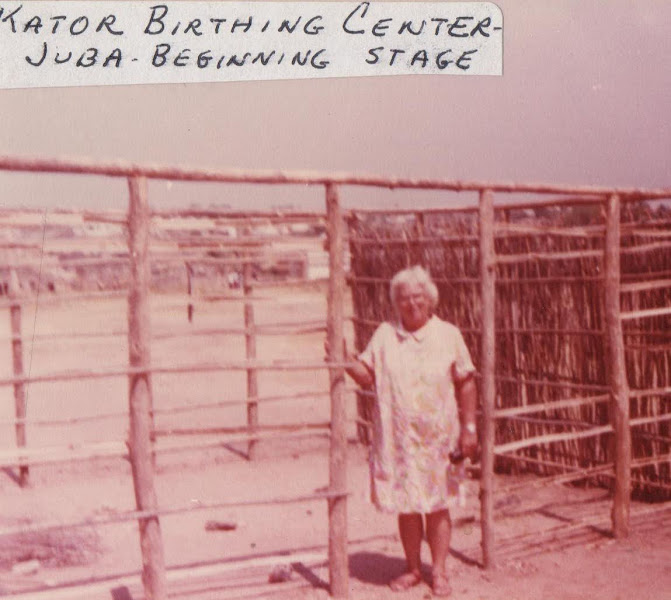
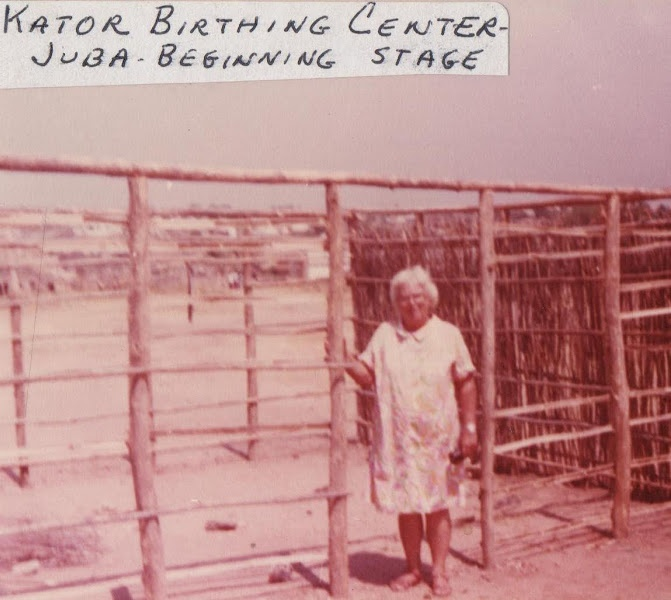
Family photos, Bogalusa, footnote, and copy fixes
- Add family-album photos: Winifred as a toddler and at Red Bird with a jeep;
  the Bradford farm family, Lester at Hebron, in the Army and as a smokejumper;
  the full wedding party (two slides stitched); Lester's ox team at Kayima;
  back to Africa in 1960; the VW pickup in Bo
- Section v now covers Bogalusa (1968) and Baton Rouge, from the family bio and NSA obituary
- Dec 20/21 discrepancy moves to a footnote
- Complete the cut-off K on the Kator label
- Map "Home" becomes "Back in the U.S."; ages as numerals; drop the reels intro,
  the Khunjerab altitude note and the letters "names left out" clause

Changed region(s): [[0.0, 0.0, 0.775, 0.12]]

diff --git a/site/index.html b/site/index.html
@@ -131,28 +131,62 @@
         <p>Winifred Smith was born in Enid, Oklahoma, on October 20, 1922, the sixth of eight children, two years after American women won the vote. She set her heart on medicine and paid her own way through the Depression and the war: a degree from York College, a small United Brethren school in York, Nebraska, in 1944, and then the University of Nebraska College of Medicine, where she was one of four women in a class of 92.<sup class="cite"><a href="#src-memoir">1</a></sup><sup class="cite"><a href="#src-sherbro">6</a></sup> Her medical degree was conferred on April 3, 1948.<sup class="cite"><a href="#src-memoir">1</a></sup></p>
         <p>She spent medical-school summers volunteering at the Red Bird Mission in the mountains of eastern Kentucky, and later went back to cover for its doctor. Not every patient was ready for her. “If I’d o knowed you was a woman,” one told her, “I wouldn’t have come.”<sup class="cite"><a href="#src-memoir">1</a></sup></p>
       </div>
-      <figure class="photo tilt-l photo-small">
-        <button class="zoom" type="button" aria-label="Enlarge photo: Winifred Smith holding a newborn">
-          <div class="frame"><img width="419" height="463" src="media/photos/winnie-red-bird-640.webp" loading="lazy" decoding="async" alt="A smiling young woman in a white uniform holds a newborn baby up in her hands."></div>
-        </button>
-        <figcaption>Dr. Winifred Smith with a newborn at the Red Bird Mission, Kentucky, in the late 1940s.<span class="caption-meta">Photo via Sherbro Foundation</span></figcaption>
-      </figure>
+      <div class="album">
+        <figure class="photo tilt-l">
+          <button class="zoom" type="button" aria-label="Enlarge photo: Winifred as a small child">
+            <div class="frame"><img width="640" height="919" src="media/photos/family-winifred-toddler-640.webp" loading="lazy" decoding="async" alt="Sepia photo of a little girl in a long white dress and a ruffled bonnet, standing in front of a wooden building."></div>
+          </button>
+          <figcaption>Winifred as a small child, 1920s.<span class="caption-meta">Bradford family collection</span></figcaption>
+        </figure>
+        <figure class="photo tilt-r">
+          <button class="zoom" type="button" aria-label="Enlarge photo: Winifred Smith holding a newborn">
+            <div class="frame"><img width="419" height="463" src="media/photos/winnie-red-bird-640.webp" loading="lazy" decoding="async" alt="A smiling young woman in a white uniform holds a newborn baby up in her hands."></div>
+          </button>
+          <figcaption>With a newborn at the Red Bird Mission, Kentucky, late 1940s.<span class="caption-meta">Photo via Sherbro Foundation</span></figcaption>
+        </figure>
+        <figure class="photo tilt-l">
+          <button class="zoom" type="button" aria-label="Enlarge photo: Winifred beside a jeep at the Red Bird Mission">
+            <div class="frame"><img width="640" height="913" src="media/photos/family-red-bird-jeep-640.webp" loading="lazy" decoding="async" alt="Black-and-white photo of a young woman in a light dress and jacket, laughing as she leans against the door of a canvas-topped Willys jeep."></div>
+          </button>
+          <figcaption>Beside a jeep at the Red Bird Mission.<span class="caption-meta">Bradford family collection</span></figcaption>
+        </figure>
+      </div>
     </article>
 
     <article class="life reveal">
       <p class="kicker">Lester Ezra Bradford</p>
       <h3>Farm boy, air cadet, forester, smokejumper</h3>
       <div class="prose">
-        <p>Lester was born on January 20, 1926, on a farm on Mt. Abram near the village of Locke Mills, Maine, one of nine children of Everett and Fannie Bradford. “I grew up on a Maine farm where we farmed with horses and oxen,” he wrote, a fact that would matter a great deal in West Africa.<sup class="cite"><a href="#src-bio">3</a></sup><sup class="cite"><a href="#src-auto">2</a></sup></p>
+        <p>Lester was born on January 20, 1926, on a farm on Mt. Abram near the village of Locke Mills, Maine, one of nine children of Everett and Fannie Bradford. “I grew up on a Maine farm where we farmed with horses and oxen,” he wrote, a fact that would take on new importance and meaning in West Africa.<sup class="cite"><a href="#src-bio">3</a></sup><sup class="cite"><a href="#src-auto">2</a></sup></p>
         <p>After Hebron Academy he joined the Army in 1944 and trained as a tail gunner; just as he was ready for service, the war ended.<sup class="cite"><a href="#src-bio">3</a></sup><sup class="cite"><a href="#src-nsa">7</a></sup> The GI Bill took him to Yale for three years of botany and two in the School of Forestry, finishing with a Master of Forestry in 1951.<sup class="cite"><a href="#src-auto">2</a></sup><sup class="cite"><a href="#src-yale">8</a></sup></p>
         <p>He spent four summers with the U.S. Forest Service, two of them as a smokejumper parachuting onto wildfires out of Missoula, Montana, and Cave Junction, Oregon.<sup class="cite"><a href="#src-auto">2</a></sup><sup class="cite"><a href="#src-bio">3</a></sup></p>
       </div>
-      <figure class="photo tilt-r photo-small">
-        <button class="zoom" type="button" aria-label="Enlarge photo: smokejumpers boarding a Ford Trimotor, 1945">
-          <div class="frame"><img width="640" height="465" src="media/photos/commons-smokejumpers-1945-640.webp" loading="lazy" decoding="async" alt="Black-and-white photo of young men in parachute harnesses climbing into a corrugated-metal Ford Trimotor airplane."></div>
+      <figure class="photo tilt-r farm-photo">
+        <button class="zoom" type="button" aria-label="Enlarge photo: a farm family on a Maine hillside">
+          <div class="frame"><img width="640" height="429" src="media/photos/family-bradfords-maine-farm-640.webp" srcset="media/photos/family-bradfords-maine-farm-640.webp 640w, media/photos/family-bradfords-maine-farm-1280.webp 1280w" sizes="(max-width: 760px) 92vw, 34rem" loading="lazy" decoding="async" alt="Black-and-white photo of a tall man in suspenders and a woman holding a baby, with eight children lined up by height between them in a grassy field below a wooded hill."></div>
         </button>
-        <figcaption>Forest Service smokejumpers boarding a Ford Trimotor in Montana, July 1945. Lester joined the program a few years later.<span class="caption-meta">U.S. Forest Service · Public domain, via Wikimedia Commons</span></figcaption>
+        <figcaption>Very likely Everett and Fannie Bradford with their nine children, Lester among them.<span class="caption-meta">Bradford family collection</span></figcaption>
       </figure>
+      <div class="album">
+        <figure class="photo tilt-l">
+          <button class="zoom" type="button" aria-label="Enlarge photo: Lester's high school graduation portrait">
+            <div class="frame"><img width="640" height="944" src="media/photos/family-lester-hebron-1943-640.webp" loading="lazy" decoding="async" alt="Sepia studio portrait of a young man with wavy hair in a dark suit and plaid tie."></div>
+          </button>
+          <figcaption>High school graduation, Hebron Academy, 1943.<span class="caption-meta">Bradford family collection</span></figcaption>
+        </figure>
+        <figure class="photo tilt-r">
+          <button class="zoom" type="button" aria-label="Enlarge photo: Lester in Army uniform">
+            <div class="frame"><img width="640" height="881" src="media/photos/family-lester-army-640.webp" srcset="media/photos/family-lester-army-640.webp 640w, media/photos/family-lester-army-1280.webp 1280w" sizes="(max-width: 760px) 30vw, 11rem" loading="lazy" decoding="async" alt="Sepia studio portrait of a young man in an Army uniform and garrison cap, with air crew wings on his chest."></div>
+          </button>
+          <figcaption>In Army uniform, mid-1940s.<span class="caption-meta">Bradford family collection</span></figcaption>
+        </figure>
+        <figure class="photo tilt-l">
+          <button class="zoom" type="button" aria-label="Enlarge photo: Lester in smokejumper gear">
+            <div class="frame"><img width="640" height="933" src="media/photos/family-lester-smokejumper-640.webp" srcset="media/photos/family-lester-smokejumper-640.webp 640w, media/photos/family-lester-smokejumper-1280.webp 1280w" sizes="(max-width: 760px) 30vw, 11rem" loading="lazy" decoding="async" alt="Sepia photo of a young man in a padded jump suit and parachute harness, holding a mesh face-guard helmet, on an airstrip below forested hills."></div>
+          </button>
+          <figcaption>Suited up to jump, 1950 or 1951.<sup class="cite"><a href="#src-nsa">7</a></sup><span class="caption-meta">Bradford family collection</span></figcaption>
+        </figure>
+      </div>
     </article>
   </div>
 </section>
@@ -194,7 +228,7 @@
       <ol class="days reveal">
         <li class="day">
           <time datetime="1952-12-21"><small>Sunday</small>Dec 21</time>
-          <p>Winnie spends the day telephoning Freetown from a railway station to ask whether his ship is in. At 6&nbsp;p.m. the call comes: Lester, off the S.S. <i>Ferngulf</i>, has just walked into the mission house.</p>
+          <p>Winnie spends the day telephoning Freetown from a railway station to ask whether his ship is in. At 6&nbsp;p.m. the call comes: Lester, off the S.S. <i>Ferngulf</i>, has just walked into the mission house.<sup class="cite fn"><a href="#fn-arrival" id="fnref-arrival" aria-label="Note">*</a></sup></p>
         </li>
         <li class="day">
           <time datetime="1952-12-22"><small>Monday</small>Dec 22</time>
@@ -212,7 +246,14 @@
         <figcaption>Mr. and Mrs. Lester Bradford, December 23, 1952.<span class="caption-meta">From <i>A Life Remembered</i> (2011)</span></figcaption>
       </figure>
     </div>
-    <p class="after reveal">Winnie had arranged everything herself: the menu, the rice, the invitations, even the license, which the District Commissioner had to amend because it was unusual for the bride to apply. They stayed married for sixty-six years.<sup class="cite"><a href="#src-memoir">1</a></sup><sup class="cite"><a href="#src-sherbro">6</a></sup> <span class="aside">Some later accounts give Lester’s arrival as December 20; Winnie’s letter from that month says the 21st.</span></p>
+    <p class="after reveal">Winnie had arranged everything herself: the menu, the rice, the invitations, even the license, which the District Commissioner had to amend because it was unusual for the bride to apply. They stayed married for sixty-six years.<sup class="cite"><a href="#src-memoir">1</a></sup><sup class="cite"><a href="#src-sherbro">6</a></sup></p>
+    <figure class="photo party reveal">
+      <button class="zoom" type="button" data-full="media/photos/family-wedding-party-1952-1280.webp" aria-label="Enlarge photo: the full wedding party, December 1952">
+        <div class="frame"><img width="640" height="438" src="media/photos/family-wedding-party-1952-640.webp" srcset="media/photos/family-wedding-party-1952-640.webp 640w, media/photos/family-wedding-party-1952-1280.webp 1280w" sizes="(max-width: 860px) 92vw, 72rem" loading="lazy" decoding="async" alt="Color photo of a large wedding party on a lawn in front of a two-story mission house with a red roof: the bride in white satin and veil, the groom in a pale gray suit, bridesmaids in pink and white with bouquets, two boys in front, and groomsmen in dark jackets and white trousers."></div>
+      </button>
+      <figcaption>The whole wedding party, December 1952. Two color slides from the family collection, joined to show everyone.<span class="caption-meta">Bradford family collection</span></figcaption>
+    </figure>
+    <p class="footnote" id="fn-arrival"><a href="#fnref-arrival" aria-label="Back to the text">*</a> Some later accounts give Lester’s arrival as December 20;<sup class="cite"><a href="#src-nsa">7</a></sup> Winnie’s letter from that month says the 21st.<sup class="cite"><a href="#src-memoir">1</a></sup></p>
   </div>
 </section>
 
@@ -248,12 +289,36 @@
         </button>
         <figcaption>The Manjama Health Center. “The front of the building is where I held clinics. The back of the building is where I delivered babies.”<span class="caption-meta">From <i>A Life Remembered</i> (2011)</span></figcaption>
       </figure>
+      <div class="photo-pair">
+        <figure class="photo tilt-l reveal">
+          <button class="zoom" type="button" aria-label="Enlarge photo: the family setting off back to Africa, 1960">
+            <div class="frame"><img width="640" height="447" src="media/photos/family-back-to-africa-1960-640.webp" loading="lazy" decoding="async" alt="Black-and-white photo of Lester in shirt, tie and suspenders and Winnie holding a baby, with four small children, in front of a white clapboard building and a 1950s car."></div>
+          </button>
+          <figcaption>Setting off back to Africa in 1960, after a year’s furlough in Maine.<sup class="cite"><a href="#src-bio">3</a></sup><span class="caption-meta">Bradford family collection</span></figcaption>
+        </figure>
+        <figure class="photo tilt-r reveal offset">
+          <button class="zoom" type="button" aria-label="Enlarge photo: the family's Volkswagen pickup in Bo">
+            <div class="frame"><img width="640" height="326" src="media/photos/family-bo-pickup-640.webp" srcset="media/photos/family-bo-pickup-640.webp 640w, media/photos/family-bo-pickup-1280.webp 1280w" sizes="(max-width: 860px) 46vw, 17rem" loading="lazy" decoding="async" alt="Black-and-white photo of three children sitting on the load bed of a Volkswagen double-cab pickup truck with its doors open."></div>
+          </button>
+          <figcaption>The Volkswagen double-cab pickup, with three of the children aboard, in Bo, 1960s.<span class="caption-meta">Bradford family collection</span></figcaption>
+        </figure>
+      </div>
     </div>
   </div>
 
   <div class="toolkit reveal" aria-labelledby="toolkit-h">
-    <h3 id="toolkit-h">What Lester planted</h3>
-    <p class="toolkit-intro">His own account, written late in life, was titled <i>A Life in Tropical Agroforestry</i>. These are the projects he described from his Sierra Leone years.<sup class="cite"><a href="#src-auto">2</a></sup></p>
+    <div class="toolkit-head">
+      <div>
+        <h3 id="toolkit-h">What Lester planted</h3>
+        <p class="toolkit-intro">His own account, written late in life, was titled <i>A Life in Tropical Agroforestry</i>. These are the projects he described from his Sierra Leone years.<sup class="cite"><a href="#src-auto">2</a></sup></p>
+      </div>
+      <figure class="photo tilt-r">
+        <button class="zoom" type="button" aria-label="Enlarge photo: Lester with his ox team in Kayima">
+          <div class="frame"><img width="640" height="489" src="media/photos/family-kayima-oxen-640.webp" srcset="media/photos/family-kayima-oxen-640.webp 640w, media/photos/family-kayima-oxen-1280.webp 1280w" sizes="(max-width: 860px) 92vw, 30rem" loading="lazy" decoding="async" alt="Sepia photo of two oxen in a hand-carved wooden yoke, one dark and one white, with a man holding the lead ropes on the left and Lester, shirtless in shorts and a cap, leaning on the white ox at right, in front of a thatched hut."></div>
+        </button>
+        <figcaption>Lester, right, with an ox team at Kayima, where they lived from 1953 to 1955.<sup class="cite"><a href="#src-memoir">1</a></sup><span class="caption-meta">Bradford family collection</span></figcaption>
+      </figure>
+    </div>
     <ul>
       <li><b>Ox-plowing</b>He bought a pair of oxen from a passing herder, whittled a yoke, and “taught the team to respond to <i>gee</i> and <i>haw</i> in the best Maine fashion.” The chief and his council were not impressed.</li>
       <li><b>Cover crops</b>To break the cycle of slash-and-burn forest fallow, which tied up land for years, he found a cover crop that kept soil fertile without it.</li>
@@ -275,10 +340,6 @@
     <h2 id="reels-h">The reels</h2>
     <p class="kicker">Silent home movies · The family collection</p>
   </div>
-  <div class="reels-intro reveal">
-    <p>The family kept a camera running through decades of furloughs and reunions. These two clips come from the Bradford family’s own reels, digitized from film. They are silent, as they were made.</p>
-  </div>
-
   <div class="feature-reel reveal">
     <div class="screen">
       <video controls muted playsinline preload="none" poster="media/reels/african-dawn.jpg" aria-label="Home movie: a sendoff aboard the African Dawn" aria-describedby="dawn-desc">
@@ -312,7 +373,7 @@
   </div>
   <div class="chapter-body flip">
     <div class="prose reveal">
-      <p>Back in the United States, Lester joined the LSU extension service in Louisiana, then earned a Doctor of Education at LSU in 1971 with a study of how well forestry knowledge translated into forest practice in two Louisiana parishes.<sup class="cite"><a href="#src-memoir">1</a></sup><sup class="cite"><a href="#src-lsu">5</a></sup> Winnie, a veteran of thousands of deliveries, went back to school too, completing a pediatric residency in Baton Rouge.<sup class="cite"><a href="#src-memoir">1</a></sup></p>
+      <p>Back in the United States in 1968, the family settled first in Bogalusa, Louisiana, where Lester worked for the LSU extension service.<sup class="cite"><a href="#src-bio">3</a></sup><sup class="cite"><a href="#src-nsa">7</a></sup> The next two years they spent in Baton Rouge. There Lester earned a Doctor of Education at LSU in 1971 with a study of how well forestry knowledge translated into forest practice in two Louisiana parishes,<sup class="cite"><a href="#src-bio">3</a></sup><sup class="cite"><a href="#src-lsu">5</a></sup> and Winnie, a veteran of thousands of deliveries, went back to school too, completing a pediatric residency at Earl K. Long hospital.<sup class="cite"><a href="#src-memoir">1</a></sup></p>
       <p>In 1971 they moved to Mount Vernon, Washington, where Lester became Washington State University’s county agent for 4-H, education and forestry in Skagit and Island counties.<sup class="cite"><a href="#src-bio">3</a></sup><sup class="cite"><a href="#src-nsa">7</a></sup></p>
       <p>Winnie began attending home births, and in January 1975 she and nurse practitioner Beth Marvin opened the Mount Vernon Birth Center in an old house near Skagit Valley Hospital.<sup class="cite"><a href="#src-memoir">1</a></sup> Within a year or two, nearly two hundred babies had been born there.<sup class="cite"><a href="#src-memoir">1</a></sup> Not every doctor approved. The State Medical Disciplinary Board held a hearing on her competency; that day the hospital waiting room was crowded with families ready to testify on her behalf. One of the doctors involved later wrote to her: “I wanted you to understand how much I think of you as a caring, warm, Christian physician.”<sup class="cite"><a href="#src-memoir">1</a></sup></p>
       <p>“Her compassionate approach to birthing,” a Skagit Valley tribute later concluded, “revolutionized the whole birth industry in Skagit County.”<sup class="cite"><a href="#src-meyer">4</a></sup></p>
@@ -389,7 +450,7 @@
         <button class="zoom" type="button" aria-label="Enlarge photo: Lester and Winnie at the Pakistan–China border, 1987">
           <div class="frame"><img width="640" height="401" src="media/photos/memoir-khunjerab-1987-640.webp" loading="lazy" decoding="async" alt="Lester and Winnie in winter coats stand on either side of a white border marker bearing the Chinese national emblem, with snowy mountains behind."></div>
         </button>
-        <figcaption>At the Pakistan–China border, Khunjerab Pass, 1987. The memoir’s caption puts it at 17,000 feet; the pass is in fact about 15,400.<sup class="cite"><a href="#src-khunjerab">14</a></sup><span class="caption-meta">From <i>A Life Remembered</i> (2011)</span></figcaption>
+        <figcaption>At the Pakistan–China border, Khunjerab Pass, 1987.<span class="caption-meta">From <i>A Life Remembered</i> (2011)</span></figcaption>
       </figure>
       <figure class="photo tilt-r reveal">
         <button class="zoom" type="button" aria-label="Enlarge photo: snow geese over the Skagit Valley">
@@ -408,7 +469,7 @@
     <p class="kicker">1951 to 1989 · Ten excerpts · London to El Obeid</p>
   </div>
   <div class="letters-intro reveal">
-    <p>For nearly forty years Winnie wrote letters home addressed to “Dear Friends,” and Lester took a turn whenever there were snakes, goats or storms to report. Her memoir reproduces dozens of them. These are short excerpts, in their own words, with the names of family left out.<sup class="cite"><a href="#src-memoir">1</a></sup></p>
+    <p>For nearly forty years Winnie wrote letters home addressed to “Dear Friends,” and Lester took a turn whenever there were snakes, goats or storms to report. Her memoir reproduces dozens of them. These are short excerpts, in their own words.<sup class="cite"><a href="#src-memoir">1</a></sup></p>
   </div>
   <div class="letter-grid reveal">
     <article class="letter">
@@ -477,7 +538,7 @@
     </article>
     <article class="letter">
       <p class="letter-from"><span class="place">El Obeid, Sudan</span><time datetime="1989-03">March 1989</time></p>
-      <p class="ctx">Her first week in the last posting, at sixty-six:</p>
+      <p class="ctx">Her first week in the last posting, at 66:</p>
       <p>“Our neighbors have five daughters and an infant son. The girls came to call on me my second day here (and each day since), jabbering away in Arabic, and then took me over to meet their mother. They have brought us some kind of food every day.”</p>
       <p>“We are settling in fast, learning to think again in pounds and piastres, saying ‘a salaam aleikam’ for hello, eating breakfast in mid-morning, hearing the Moslem calls to prayer, etc. … I don’t anticipate being bored; this is an interesting town.”</p>
       <p class="letter-sign">— Winnie<sup class="cite"><a href="#src-memoir">1</a></sup></p>
@@ -500,7 +561,7 @@
       <li><button type="button" aria-pressed="false" data-chapter="roots" data-caption="&lt;b&gt;Roots.&lt;/b&gt; Winnie: Enid, Oklahoma; York College and medical school in Nebraska; the Red Bird Mission in Kentucky. Lester: a farm near Locke Mills, Maine, and smokejumper bases in Missoula and Cave Junction.">Roots</button></li>
       <li><button type="button" aria-pressed="false" data-chapter="yale" data-caption="&lt;b&gt;Yale.&lt;/b&gt; They meet in New Haven: she is studying Mandarin, he forestry. Lester studies tropical agriculture at Cornell.">Yale</button></li>
       <li><button type="button" aria-pressed="false" data-chapter="africa" data-caption="&lt;b&gt;Sierra Leone.&lt;/b&gt; London, then Freetown in 1951. Rotifunk, where they marry; Kayima among the Kono; twelve years at Manjama, near Bo.">Sierra Leone</button></li>
-      <li><button type="button" aria-pressed="false" data-chapter="home" data-caption="&lt;b&gt;Home.&lt;/b&gt; Bogalusa, Louisiana, in 1968, then Mount Vernon in Washington’s Skagit Valley: extension work for him, a birth center for her.">Home</button></li>
+      <li><button type="button" aria-pressed="false" data-chapter="home" data-caption="&lt;b&gt;Back in the U.S.&lt;/b&gt; Bogalusa, Louisiana, in 1968, then Baton Rouge, then Mount Vernon in Washington’s Skagit Valley: extension work for him, a birth center for her.">Back in the U.S.</button></li>
       <li><button type="button" aria-pressed="false" data-chapter="abroad" data-caption="&lt;b&gt;Sudan &amp;amp; Pakistan.&lt;/b&gt; Juba from 1979, then Khartoum; Tarbela, Pakistan, 1984–87; El Obeid, 1989.">Sudan &amp; Pakistan</button></li>
       <li><button type="button" aria-pressed="false" data-chapter="service" data-caption="&lt;b&gt;Still serving.&lt;/b&gt; Volunteer agroforestry assignments in Ukraine, Zimbabwe, Mauritania, Bolivia, Brazil, Indonesia, the Philippines, South Africa and Haiti, and a teaching stint in Russia.">Still serving</button></li>
     </ul>
@@ -516,7 +577,7 @@
   </div>
   <div class="chapter-body">
     <div class="prose reveal">
-      <p>Lester died peacefully at home in Mount Vernon on March 3, 2019, after two years of Parkinson’s disease. He was ninety-three.<sup class="cite"><a href="#src-bio">3</a></sup> Winnie died at home on July 19, 2020, at ninety-seven.<sup class="cite"><a href="#src-sherbro">6</a></sup><sup class="cite"><a href="#src-blog">13</a></sup></p>
+      <p>Lester died peacefully at home in Mount Vernon on March 3, 2019, after two years of Parkinson’s disease. He was 93.<sup class="cite"><a href="#src-bio">3</a></sup> Winnie died at home on July 19, 2020, at 97.<sup class="cite"><a href="#src-sherbro">6</a></sup><sup class="cite"><a href="#src-blog">13</a></sup></p>
       <p>Memorial gifts went to the Sherbro Foundation, which works in Bumpeh Chiefdom, where Winnie began her career in Rotifunk. In 2020 the foundation dedicated its community health nursing scholarships to her. Each, about $1,100 a year, covers tuition, practicals, supplies, food and transport for a three-year nursing program. The first recipients in her name were Fatmata Sesay, Umu Bangura and Safiatu Bendu.<sup class="cite"><a href="#src-sherbro">6</a></sup></p>
       <p>It is hard to imagine a better memorial: young women from Rotifunk’s own chiefdom, training to care for its mothers and children.</p>
       <a class="cta" href="https://sherbrofoundation.org/" rel="noopener">Support the Sherbro Foundation</a>
@@ -565,7 +626,7 @@
     <li class="both"><time datetime="1952-12-23">1952</time><p><span class="who">Together</span>Lester reaches Freetown on December 21; they marry at Rotifunk on December 23.</p></li>
     <li class="both"><time>1953–55</time><p><span class="who">Together</span>Kayima, among the Kono: ox-plowing, wells, poultry, adult literacy; village maternity work.</p></li>
     <li class="both"><time>1956–68</time><p><span class="who">Together</span>Manjama, near Bo: the demonstration farm, and from 1961 the Manjama Health Center.</p></li>
-    <li class="both"><time>1968–71</time><p><span class="who">Together</span>Louisiana. Lester earns an EdD at LSU (1971); Winnie completes a pediatric residency.</p></li>
+    <li class="both"><time>1968–71</time><p><span class="who">Together</span>Bogalusa, then Baton Rouge, Louisiana. Lester earns an EdD at LSU (1971); Winnie completes a pediatric residency.</p></li>
     <li class="both"><time>1971</time><p><span class="who">Together</span>Mount Vernon, Washington. Lester becomes county extension agent for Skagit and Island counties.</p></li>
     <li class="w"><time>1975</time><p><span class="who">Winnie</span>Opens the Mount Vernon Birth Center with Beth Marvin in January.</p></li>
     <li class="both"><time>1979–84</time><p><span class="who">Together</span>Juba and Khartoum, Sudan. Agroforestry colleges for him; the Kator birthing center for her.</p></li>
@@ -597,16 +658,15 @@
     <li id="src-marad"><span>U.S. Maritime Administration, “<a href="https://vesselhistory.marad.dot.gov/ShipHistory/Detail/11911" rel="noopener">African Dawn</a>,” vessel status card.</span></li>
     <li id="src-letter"><span>Lester and Winnie Bradford, <a href="https://docs.google.com/document/d/13Ws_nsPZtgbeN_CDue1AucBG6bv_OxWB/" rel="noopener">holiday letter</a>, December 2007.</span></li>
     <li id="src-blog"><span>Ethan Bradford, memorial pages for <a href="https://ethanbradford.blogspot.com/2019/03/lester-ezra-bradford-information.html" rel="noopener">Lester</a> and <a href="https://ethanbradford.blogspot.com/2020/07/winifred-ruth-smith-bradford-information.html" rel="noopener">Winifred</a>, with links to memorial services.</span></li>
-    <li id="src-khunjerab"><span>Wikipedia, “<a href="https://en.wikipedia.org/wiki/Khunjerab_Pass" rel="noopener">Khunjerab Pass</a>” (elevation 4,693 m / 15,397 ft).</span></li>
   </ol>
-  <p class="sources-note">Where sources disagree we follow the earliest first-hand account. Winnie’s own letters give her arrival in Sierra Leone as August 1951 (one tribute says 1950) and Lester’s arrival as December 21, 1952 (some obituaries say the 20th). A photo caption on the Sherbro Foundation site places El Obeid in Pakistan; it is in Sudan. Home movies are from the Bradford family’s collection. Additional photos: U.S. Forest Service (public domain) and Eric Frommer (CC BY-SA 2.0), via Wikimedia Commons. Map data: Natural Earth.</p>
+  <p class="sources-note">Where sources disagree we follow the earliest first-hand account. Winnie’s own letters give her arrival in Sierra Leone as August 1951 (one tribute says 1950) and Lester’s arrival as December 21, 1952 (some obituaries say the 20th). A photo caption on the Sherbro Foundation site places El Obeid in Pakistan; it is in Sudan. Home movies and the photos marked “Bradford family collection” come from the family’s own albums and reels; where a family photo’s subjects or date are uncertain, its caption says so. Additional photo: Eric Frommer (CC BY-SA 2.0), via Wikimedia Commons. Map data: Natural Earth.</p>
 </section>
 
 </main>
 
 <footer class="footer">
   <p class="names">Lester <span class="amp">&amp;</span> Winnie</p>
-  <p>Made by their grandson, with the help of AI, from public records and the family’s own home movies.</p>
+  <p>Made by their grandson, with the help of AI, from public records and the family’s collection of photos and home movies.</p>
   <p>Have a memory, a photograph, or a correction? <a href="https://github.com/lukebradford/lesterandwinnie/issues" rel="noopener">Tell us</a> · <button type="button" data-share class="linklike">Share this page</button></p>
   <p class="mono">In memory · 1922–2020</p>
 </footer>

diff --git a/site/css/style.css b/site/css/style.css
@@ -399,3 +399,22 @@ button.zoom:focus-visible { outline: 2px solid var(--indigo); outline-offset: 4p
   .map-box::after { content: "Swipe to explore the map →"; display: block; position: sticky; left: 0; margin-top: 0.4rem; font: 500 0.66rem var(--mono); letter-spacing: 0.08em; text-transform: uppercase; color: var(--ink-3); }
 }
 @media (max-width: 420px) { .stat b { font-size: 2rem; } }
+
+/* Family album rows (chapter i) and the full wedding party */
+.album { display: grid; grid-template-columns: repeat(3, minmax(0, 1fr)); gap: 1rem; align-items: start; margin-top: 2rem; }
+.album .frame { padding: 0.45rem; }
+.album figcaption { font-size: 0.8rem; line-height: 1.4; }
+.album figcaption .caption-meta { font-size: 0.6rem; }
+.farm-photo { margin-top: 2rem; }
+.party { max-width: 60rem; margin: 3.5rem 0 0; }
+.party .frame { background: #edebe4; transform: rotate(-0.5deg); }
+.party figcaption { color: rgb(239 231 214 / 0.85); max-width: 40rem; }
+.party .caption-meta { color: rgb(239 231 214 / 0.6) !important; }
+.footnote { max-width: 40rem; margin: 3rem 0 0; padding-top: 0.9rem; border-top: 1px solid rgb(239 231 214 / 0.25); font-size: 0.85rem; color: rgb(239 231 214 / 0.65); }
+.footnote > a { text-decoration: none; margin-right: 0.3em; }
+.footnote:target { color: rgb(239 231 214 / 0.95); }
+sup.fn a { font-size: 1.3em; }
+.toolkit-head { display: grid; grid-template-columns: minmax(0, 1fr) minmax(0, 30rem); gap: clamp(2rem, 5vw, 4rem); align-items: center; margin-bottom: 2rem; }
+.toolkit-head .toolkit-intro { margin-bottom: 0; }
+@media (max-width: 860px) { .toolkit-head { grid-template-columns: 1fr; } }
+@media (max-width: 420px) { .album { gap: 0.6rem; } .album figcaption { font-size: 0.74rem; } }

diff --git a/research/notes.md b/research/notes.md
@@ -74,7 +74,7 @@ Every fact on the site should trace back to a source listed here. Mark facts **[
 - **Years in Sierra Leone:** sources say 16 or 17. We use 17, which is Winnie's own figure.
 - **Lester's arrival:** Dec 20 or 21. We use 21, from Winnie's letter, and note the other date.
 - **Tail gunner:** trained only; never deployed. The family bio says Army Specialized Reserve Program at UMaine, planning to be a pilot; the NSA says he joined the Army in June 1944 and trained as a tail gunner.
-- **Khunjerab Pass altitude:** the memoir's photo caption (p158) says "17,000 ft."; the pass is actually about 4,693 m / 15,400 ft (Wikipedia, cited as source 14). The site caption now gives both figures **[resolved Nov 2026]**.
+- **Khunjerab Pass altitude:** the memoir's photo caption (p158) says "17,000 ft."; the pass is actually about 4,693 m / 15,400 ft. At the family's request (Nov 2026) the site no longer mentions the altitude, and the Wikipedia source was dropped.
 - **Departure for Sudan:** Lester's Nov 1979 letter (memoir) says they left Mt. Vernon in September 1979, reached Khartoum by Sept 24 and Juba on Oct 24. Lester's agroforestry essay says "In 1980". The site says "In October 1979". Winnie's letter also says "the four youngest are in school in various places", so "with the children grown" is loose.
 - **Mount Vernon move:** family bio says the WSU job offer came in 1971; the memoir's chapter heading says "Mt. Vernon 1972–1979" and the 1979 letter says "severing ties of 10 years". Winnie's residency ran to July 30, 1971.
 - **Pakistan base:** the memoir letters are headed "Tarbela, Pakistan"; the family bio says Peshawar.
@@ -95,6 +95,21 @@ Checked directly in the memoir text: 22 missionaries overnight; the 12:45 train 
 ## Letters chapter (Nov 2026)
 Excerpts on the site, checked against the page scans (PDF page numbers): London May 28, 1951 (p46); Rotifunk Dec 1952 wedding letter (p57–61; the shopping list is p61); Rotifunk Mar 1953, written by Lester (p62–63); Kayima Nov 1953 (p66); Kayima Feb 1955 (p69); Manjama Jul 1956, written by Lester (p73–75); Manjama Oct 1965 (p101); Juba Nov 1979, Lester then Winnie (p129); Tarbela Mar 1985 (p149); El Obeid Mar 1989 (p156–157). Letters not marked "(Written by Lester)" are Winnie's. Excerpts were chosen to avoid naming the children. Photo p65 (volunteers thatching the Kayima kitchen, 1953) is now used.
 Other good letters not yet used: Rotifunk May 1, 1952 (Christmas callers, "no roads into Rotifunk"); Kayima Aug 1953 snakes (Lester); Kayima May 1954 (prenatal clinic of 15 women); Manjama Dec 1964 (death of chief Alimany); Juba Sept 1979 (packing into four categories — names family); Tarbela Nov 1984 and Nov 1985 (village visit with the Pushto teacher).
+
+## Bogalusa and Baton Rouge (Nov 2026)
+- Family bio (source 3): "In 1968, the family moved to Bogalusa, Louisiana, where Lester worked for the Louisiana State University (LSU) extension service. For the following two years, they lived in Baton Rouge, where Lester earned his Doctorate of Education." NSA obituary (source 7) also says the family moved to Bogalusa in 1968. **[verified]**
+- Family bio: year-long furloughs in New York 1955–56, Maine 1959–60, Oklahoma 1963–64. Supports the "back to Africa, 1960" photo caption. **[verified]**
+- NSA obituary: smokejumping jumps in 1950 (7 training, 2 fire) and 1951 (2 refresher, 5 fire). The smokejumper photo is captioned "1950 or 1951". **[verified]**
+
+## Family photos (added at the family's request, Nov 2026)
+The spec now allows photos the family specifically asks for. They come from two shared Google Photos albums (links are in the Nov 2026 session request; do NOT publish the album links: they hold hundreds of photos of living relatives). Filenames were read from the download's Content-Disposition header. Captions credit "Bradford family collection" and never name children.
+- `family-bradfords-maine-farm` = FB_IMG_1552249350268.jpg (couple with nine children in a field; captioned "very likely" Everett and Fannie).
+- `family-lester-hebron-1943` = LesterHighschoolGrad.jpg; `family-lester-army` = 20190315_102656.jpg; `family-lester-smokejumper` = 20190315_102729.jpg.
+- `family-wedding-party-1952` = LesterWinnieWeddingParty3.JPG + LesterWinnieWeddingParty2.JPG, stitched with OpenCV (same slide scanned twice; Party2 supplies the right edge).
+- `family-kayima-oxen` = LesterInKayima.jpg; `family-back-to-africa-1960` = "Lester Family Off to Africa 1960.jpg"; `family-bo-pickup` = "…VBW Double-cab Pickup, Bo, Sierra Leone].jpg" (filename names three children; not published).
+- `family-winifred-toddler` = "Winifred toddler.jpg"; `family-red-bird-jeep` = "Winifred and jeep at Red Bird Mission.jpg".
+- Not used: 20190315_102643.jpg (a photographed book page about 1946 Yale freshmen; unclear which is Lester, and the text is someone else's book); LesterWinnieInEnid1949.JPG (its 1949 date conflicts with the memoir's 1950 meeting).
+- `winnie-kator-juba`: the K of "Kator" was cut off in the Sherbro original itself. The label was shifted 6px right and the K's stem redrawn; the image size and border are unchanged.
 
 ## Open questions
 - Which Sudan USAID project? (DAI; "manpower development"; Juba ag and forestry colleges.)
